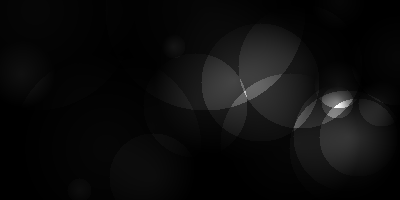
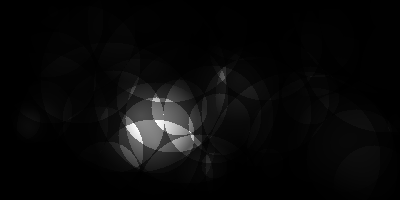
altered prepare function

Changed region(s): [[0.27, 0.15, 0.99, 0.84], [0.51, 0.75, 0.54, 0.87], [0.24, 0.57, 0.27, 0.6]]

diff --git a/Python/tktest.py b/Python/tktest.py
@@ -28,17 +28,14 @@ def craters(n):
     return maxP;
     
 def prepare(map):
-    ratio = 255 / maxP
-    print(ratio)
-    print(math.floor(ratio * maxP))
     for x in range(width):
         for y in range(height):
-            map[y][x] = math.floor(map[y][x] * ratio)
+            map[y][x] = math.floor((map[y][x] / maxP) * 255)
             
 
 f = open('ramp.png', 'wb')      # binary mode is important
 w = png.Writer(width, height, greyscale=True)
-maxP = craters(20)
+maxP = craters(50)
 print(maxP)
 prepare(map)
 w.write(f, map)
